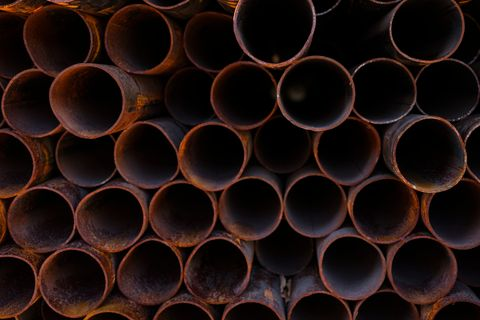
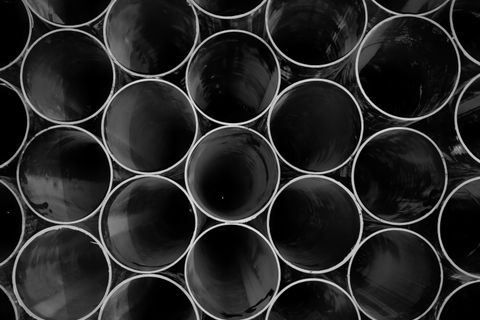
Swap rusty product photos for clean steel photos

diff --git a/index.html b/index.html
@@ -149,11 +149,11 @@
             <div class="card-body"><h3>TMT Bars</h3><span class="hi">टीएमटी सरिया</span><p>Fe 500 / 500D / 550D, 8 mm to 32 mm</p><span class="more">View details →</span></div>
           </a>
           <a class="card card-link" href="structural-steel-nagpur.html">
-            <img src="img/photos/steel-yard.jpg" srcset="img/photos/steel-yard-sm.jpg 480w, img/photos/steel-yard.jpg 800w" sizes="(min-width: 760px) 340px, 100vw" alt="Steel yard with stacked angles and a gantry crane" width="800" height="533" loading="lazy">
+            <img src="img/photos/steel-yard.jpg" srcset="img/photos/steel-yard-sm.jpg 480w, img/photos/steel-yard.jpg 800w" sizes="(min-width: 760px) 340px, 100vw" alt="Steel sections stacked in a steel yard" width="800" height="533" loading="lazy">
             <div class="card-body"><h3>Structural Steel</h3><span class="hi">एंगल, चैनल, गर्डर</span><p>Angles, channels, beams, flats, rounds &amp; squares</p><span class="more">View details →</span></div>
           </a>
           <a class="card card-link" href="ms-plates-sheets-nagpur.html">
-            <img src="img/photos/ms-plate.jpg" srcset="img/photos/ms-plate-sm.jpg 480w, img/photos/ms-plate.jpg 800w" sizes="(min-width: 760px) 340px, 100vw" alt="MS plate" width="800" height="533" loading="lazy">
+            <img src="img/photos/ms-plate.jpg" srcset="img/photos/ms-plate-sm.jpg 480w, img/photos/ms-plate.jpg 800w" sizes="(min-width: 760px) 340px, 100vw" alt="Cutting MS plate to size" width="800" height="533" loading="lazy">
             <div class="card-body"><h3>Plates &amp; Sheets</h3><span class="hi">प्लेट और चादर</span><p>MS plates and sheets, cut to size</p><span class="more">View details →</span></div>
           </a>
           <a class="card card-link" href="ms-pipes-wire-nagpur.html">

diff --git a/products.html b/products.html
@@ -81,7 +81,7 @@
           </div>
         </div>
         <div class="group">
-          <a href="structural-steel-nagpur.html"><img src="img/photos/steel-yard.jpg" srcset="img/photos/steel-yard-sm.jpg 480w, img/photos/steel-yard.jpg 800w" sizes="(min-width: 760px) 340px, 100vw" alt="Steel yard with stacked angles and a gantry crane" width="800" height="533" loading="lazy"></a>
+          <a href="structural-steel-nagpur.html"><img src="img/photos/steel-yard.jpg" srcset="img/photos/steel-yard-sm.jpg 480w, img/photos/steel-yard.jpg 800w" sizes="(min-width: 760px) 340px, 100vw" alt="Steel sections stacked in a steel yard" width="800" height="533" loading="lazy"></a>
           <div>
             <h2><a href="structural-steel-nagpur.html">Structural Steel</a> <span class="hi">एंगल, चैनल, गर्डर</span></h2>
             <div class="chips chips-sm">
@@ -95,7 +95,7 @@
           </div>
         </div>
         <div class="group">
-          <a href="ms-plates-sheets-nagpur.html"><img src="img/photos/ms-plate.jpg" srcset="img/photos/ms-plate-sm.jpg 480w, img/photos/ms-plate.jpg 800w" sizes="(min-width: 760px) 340px, 100vw" alt="MS plate" width="800" height="533" loading="lazy"></a>
+          <a href="ms-plates-sheets-nagpur.html"><img src="img/photos/ms-plate.jpg" srcset="img/photos/ms-plate-sm.jpg 480w, img/photos/ms-plate.jpg 800w" sizes="(min-width: 760px) 340px, 100vw" alt="Cutting MS plate to size" width="800" height="533" loading="lazy"></a>
           <div>
             <h2><a href="ms-plates-sheets-nagpur.html">Plates &amp; Sheets</a> <span class="hi">प्लेट और चादर</span></h2>
             <div class="chips chips-sm">

diff --git a/structural-steel-nagpur.html b/structural-steel-nagpur.html
@@ -74,7 +74,7 @@
     <section class="section">
       <div class="wrap pd-list">
         <article class="pd" id="ms-angles">
-          <img src="img/photos/ms-angle.jpg" srcset="img/photos/ms-angle-sm.jpg 480w, img/photos/ms-angle.jpg 800w" sizes="(min-width: 760px) 340px, 100vw" alt="Stack of MS angles" width="800" height="533" loading="lazy">
+          <img src="img/photos/ms-angle.jpg" srcset="img/photos/ms-angle-sm.jpg 480w, img/photos/ms-angle.jpg 800w" sizes="(min-width: 760px) 340px, 100vw" alt="Stacked MS angles in a steel yard" width="800" height="533" loading="lazy">
           <div>
             <h2>MS Angles <span class="hi">एंगल</span></h2>
             <p>Equal and unequal angles for gates, grills, frames, sheds, trusses and towers.</p>
@@ -83,7 +83,7 @@
           </div>
         </article>
         <article class="pd" id="ms-channels">
-          <img src="img/photos/ms-channel.jpg" srcset="img/photos/ms-channel-sm.jpg 480w, img/photos/ms-channel.jpg 800w" sizes="(min-width: 760px) 340px, 100vw" alt="Stacked MS channels" width="800" height="533" loading="lazy">
+          <img src="img/photos/ms-channel.jpg" srcset="img/photos/ms-channel-sm.jpg 480w, img/photos/ms-channel.jpg 800w" sizes="(min-width: 760px) 340px, 100vw" alt="Bundles of channels in a steel yard" width="800" height="533" loading="lazy">
           <div>
             <h2>MS Channels <span class="hi">चैनल</span></h2>
             <p>C-channels (ISMC) for structural frames, sheds, trusses, purlins and machine bases.</p>

diff --git a/ms-plates-sheets-nagpur.html b/ms-plates-sheets-nagpur.html
@@ -74,7 +74,7 @@
     <section class="section">
       <div class="wrap pd-list">
         <article class="pd" id="ms-plates">
-          <img src="img/photos/ms-plate.jpg" srcset="img/photos/ms-plate-sm.jpg 480w, img/photos/ms-plate.jpg 800w" sizes="(min-width: 760px) 340px, 100vw" alt="MS plate" width="800" height="533" loading="lazy">
+          <img src="img/photos/ms-plate.jpg" srcset="img/photos/ms-plate-sm.jpg 480w, img/photos/ms-plate.jpg 800w" sizes="(min-width: 760px) 340px, 100vw" alt="Cutting MS plate to size" width="800" height="533" loading="lazy">
           <div>
             <h2>MS Plates <span class="hi">प्लेट</span></h2>
             <p>Hot-rolled plates for base plates, gussets, tanks, machinery and heavy fabrication.</p>
@@ -83,7 +83,7 @@
           </div>
         </article>
         <article class="pd" id="ms-sheets">
-          <img src="img/photos/ms-sheet.jpg" srcset="img/photos/ms-sheet-sm.jpg 480w, img/photos/ms-sheet.jpg 800w" sizes="(min-width: 760px) 340px, 100vw" alt="Stack of MS sheets" width="800" height="533" loading="lazy">
+          <img src="img/photos/ms-sheet.jpg" srcset="img/photos/ms-sheet-sm.jpg 480w, img/photos/ms-sheet.jpg 800w" sizes="(min-width: 760px) 340px, 100vw" alt="Steel sheet coils" width="800" height="533" loading="lazy">
           <div>
             <h2>MS Sheets <span class="hi">चादर</span></h2>
             <p>Sheets for doors, shutters, panels, enclosures and sheet-metal work.</p>
